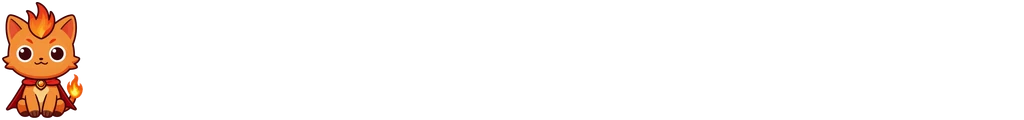
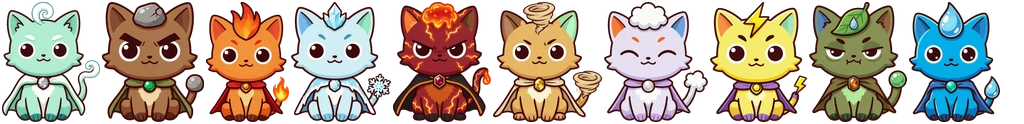
Вырезай котов с бумажного фона и подключи всех десять: квадрат, кот по низу, превью для проверки

diff --git a/src/systems/ArtList.ts b/src/systems/ArtList.ts
@@ -6,7 +6,11 @@ import type { ArtConfig, ArtGroup } from '../data/types';
 const GROUPS: Record<ArtGroup, { title: string; notes: string[] }> = {
   cats: {
     title: 'Коты',
-    notes: ['Кот сидит в клетке поля, вид спереди.', 'Уровень кота игра пишет в кружке в правом верхнем углу картинки: шляп, корон и цифр на самой картинке нет.'],
+    notes: [
+      'Кот сидит в клетке поля, вид спереди. Стиль и промпты — в `docs/RECIPE.md`.',
+      'Картинка квадратная, кот стоит по её нижнему краю: у всех котов в клетке одна линия земли.',
+      'Уровень игра показывает под котом сама: шляп, корон и цифр на картинке нет — они закрыли бы хохолок, по которому узнаётся стихия.',
+    ],
   },
   enemies: {
     title: 'Враги',
@@ -68,7 +72,8 @@ export function artList(manifest: ArtConfig, ready: ReadonlySet<string>): string
     '',
     '- Исходник — png, имя и папка как в столбце «Файл», класть в `assets-src/art/`.',
     `- Размер — в пикселях, это ${manifest.scale}× от размера на экране. Исходник может быть крупнее: он уменьшается с сохранением пропорций.`,
-    '- Фон прозрачный (кроме фонов уровней). Если прозрачности нет, фон должен быть однотонным (белым): он убирается заливкой от краёв.',
+    '- Фон прозрачный (кроме фонов уровней). Если прозрачности нет, фон должен быть светлым и ненасыщенным (белая или кремовая бумага): он убирается заливкой от краёв, белое внутри контура остаётся.',
+    '- Вырезку котов проверять по `assets-src/art/preview.png`: его пишет тот же `npm run art`.',
     '- Прозрачные края обрезаются, остаток вписывается в размер по центру.',
     '- После добавления файлов: `npm run art`, затем `npm run smoke` и снимки в `screenshots/`.',
   ];

diff --git a/src/systems/Art.test.ts b/src/systems/Art.test.ts
@@ -25,6 +25,13 @@ describe('манифест арта', () => {
     expect(art.images.filter((image) => image.group === 'cats')).toHaveLength(Object.keys(cats.elements).length);
   });
 
+  it('коты — квадратные и стоят по нижнему краю: в клетке у всех одна линия земли', () => {
+    for (const image of art.images.filter((entry) => entry.group === 'cats')) {
+      expect(image.width).toBe(image.height);
+      expect(image.align).toBe('bottom');
+    }
+  });
+
   it('у каждого типа врага есть картинка', () => {
     for (const type of Object.keys(enemies.types) as EnemyTypeId[]) expect(ids).toContain(artId.enemy(type));
     expect(art.images.filter((image) => image.group === 'enemies')).toHaveLength(Object.keys(enemies.types).length);
@@ -137,7 +144,7 @@ describe('каталог готового арта', () => {
   });
 
   it('готовая картинка атласа — кадр атласа с размером на экране вдвое меньше картинки', () => {
-    expect(catalog.find('cat-fire')).toEqual({ key: 'art:units', frame: 'cat-fire', width: 48, height: 58, scale: 2 });
+    expect(catalog.find('cat-fire')).toEqual({ key: 'art:units', frame: 'cat-fire', width: 60, height: 60, scale: 2 });
   });
 
   it('картинки, которой в атласе нет, нет и в игре', () => {

diff --git a/src/data/types.ts b/src/data/types.ts
@@ -370,6 +370,8 @@ export interface ArtImage {
   use: string;
   /** Атлас, в который картинка собирается; без поля — отдельный файл. Атласы грузятся при запуске. */
   atlas?: string;
+  /** Как обрезанная картинка встаёт в свой размер: `bottom` — по нижнему краю (коты стоят на земле); без поля — по центру. */
+  align?: 'bottom';
   /** Фон кнопки: края такой ширины в пикселях не растягиваются. */
   slice?: number;
   /** Фон уровня: грузится при входе в этот уровень. */

diff --git a/docs/ART_LIST.md b/docs/ART_LIST.md
@@ -2,33 +2,35 @@
 
 Файл собирает `npm run art` из манифеста `src/data/art.json`; руками не править.
 
-Готово картинок: 1 из 60. Пока картинки нет, на её месте в игре рисунок кодом.
+Готово картинок: 10 из 60. Пока картинки нет, на её месте в игре рисунок кодом.
 
 ## Общие требования
 
 - Исходник — png, имя и папка как в столбце «Файл», класть в `assets-src/art/`.
 - Размер — в пикселях, это 2× от размера на экране. Исходник может быть крупнее: он уменьшается с сохранением пропорций.
-- Фон прозрачный (кроме фонов уровней). Если прозрачности нет, фон должен быть однотонным (белым): он убирается заливкой от краёв.
+- Фон прозрачный (кроме фонов уровней). Если прозрачности нет, фон должен быть светлым и ненасыщенным (белая или кремовая бумага): он убирается заливкой от краёв, белое внутри контура остаётся.
+- Вырезку котов проверять по `assets-src/art/preview.png`: его пишет тот же `npm run art`.
 - Прозрачные края обрезаются, остаток вписывается в размер по центру.
 - После добавления файлов: `npm run art`, затем `npm run smoke` и снимки в `screenshots/`.
 
-## Коты (1 из 10)
+## Коты (10 из 10)
 
-- Кот сидит в клетке поля, вид спереди.
-- Уровень кота игра пишет в кружке в правом верхнем углу картинки: шляп, корон и цифр на самой картинке нет.
+- Кот сидит в клетке поля, вид спереди. Стиль и промпты — в `docs/RECIPE.md`.
+- Картинка квадратная, кот стоит по её нижнему краю: у всех котов в клетке одна линия земли.
+- Уровень игра показывает под котом сама: шляп, корон и цифр на картинке нет — они закрыли бы хохолок, по которому узнаётся стихия.
 
 | Файл | Размер | Что нарисовано | Готово |
 | --- | --- | --- | --- |
-| `cats/fire.png` | 96×116 | Огненный кот | да |
-| `cats/water.png` | 96×116 | Водный кот | нет |
-| `cats/earth.png` | 96×116 | Каменный кот | нет |
-| `cats/air.png` | 96×116 | Ветряной кот | нет |
-| `cats/steam.png` | 96×116 | Паровой кот (гибрид: огненный и водный) | нет |
-| `cats/lava.png` | 96×116 | Лавовый кот (гибрид: огненный и каменный) | нет |
-| `cats/storm.png` | 96×116 | Грозовой кот (гибрид: огненный и ветряной) | нет |
-| `cats/ice.png` | 96×116 | Ледяной кот (гибрид: водный и ветряной) | нет |
-| `cats/swamp.png` | 96×116 | Болотный кот (гибрид: водный и каменный) | нет |
-| `cats/sand.png` | 96×116 | Песчаный кот (гибрид: каменный и ветряной) | нет |
+| `cats/fire.png` | 120×120 | Огненный кот | да |
+| `cats/water.png` | 120×120 | Водный кот | да |
+| `cats/earth.png` | 120×120 | Каменный кот | да |
+| `cats/air.png` | 120×120 | Ветряной кот | да |
+| `cats/steam.png` | 120×120 | Паровой кот (гибрид: огненный и водный) | да |
+| `cats/lava.png` | 120×120 | Лавовый кот (гибрид: огненный и каменный) | да |
+| `cats/storm.png` | 120×120 | Грозовой кот (гибрид: огненный и ветряной) | да |
+| `cats/ice.png` | 120×120 | Ледяной кот (гибрид: водный и ветряной) | да |
+| `cats/swamp.png` | 120×120 | Болотный кот (гибрид: водный и каменный) | да |
+| `cats/sand.png` | 120×120 | Песчаный кот (гибрид: каменный и ветряной) | да |
 
 ## Враги (0 из 11)
 
